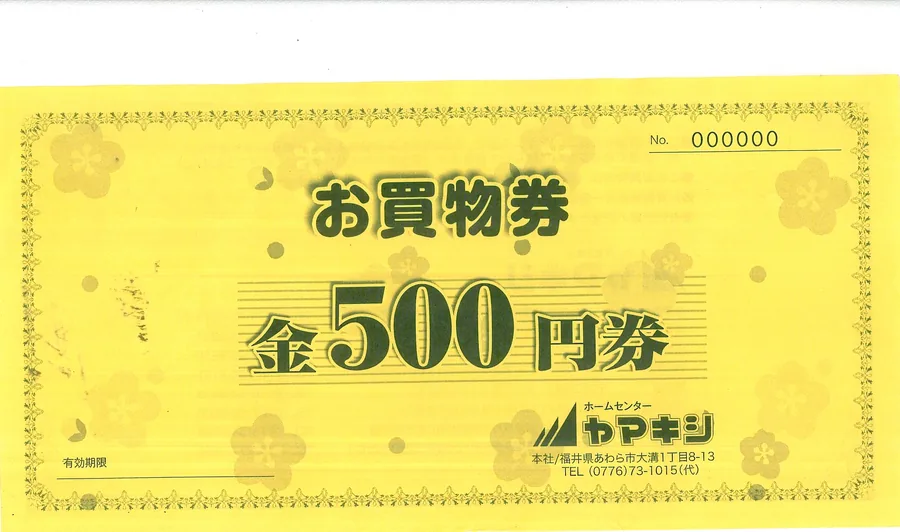
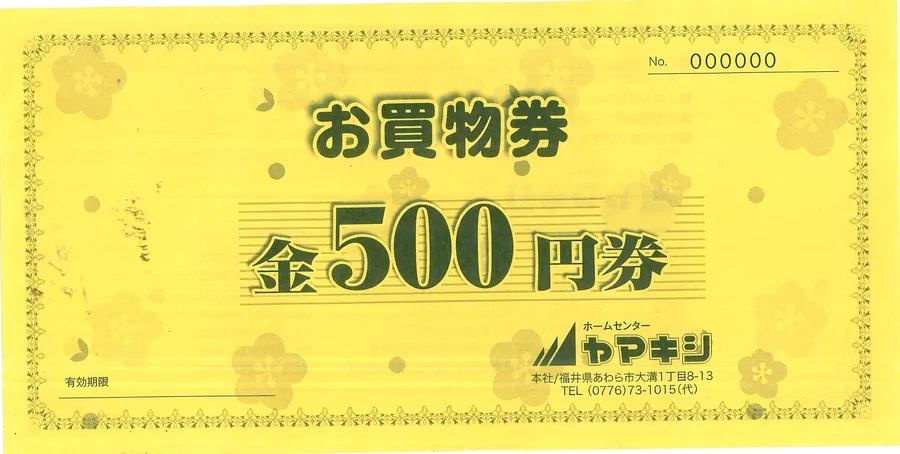
来店予約ページ：お買物券の白フチを除去し、薄い影を追加／キャプションを削除

diff --git a/assets/css/page.css b/assets/css/page.css
@@ -155,11 +155,11 @@
   position:relative; padding-left:1.1em; font-size:13.5px; color:var(--ink-sub); line-height:1.7;
 }
 .p-benefit__notes li::before{ content:"※"; position:absolute; left:0; }
+.p-benefit__fig{ line-height:0; }
+/* 券のふちに、ごく薄い影だけを落とします（枠線や角丸はつけません） */
 .p-benefit__fig img{
-  width:100%; height:auto; border-radius:var(--radius); box-shadow:var(--shadow-md);
-}
-.p-benefit__fig figcaption{
-  margin-top:8px; text-align:center; font-size:12.5px; color:var(--ink-light);
+  width:100%; height:auto; border-radius:3px;
+  filter:drop-shadow(0 3px 7px rgba(43,35,32,.16));
 }
 
 /* --------------------------------------------------------------------------

diff --git a/inquiry/webrsv/index.html b/inquiry/webrsv/index.html
@@ -146,10 +146,9 @@
       <figure class="p-benefit__fig">
         <picture>
           <source srcset="../../assets/img/common/coupon-500.webp" type="image/webp">
-          <img src="../../assets/img/common/coupon-500.jpg" width="900" height="532"
+          <img src="../../assets/img/common/coupon-500.jpg" width="900" height="454"
                alt="ホームセンターヤマキシのお買物券 金500円券" loading="lazy" decoding="async">
         </picture>
-        <figcaption>実際にお渡しするお買物券</figcaption>
       </figure>
     </div>
   </div>
